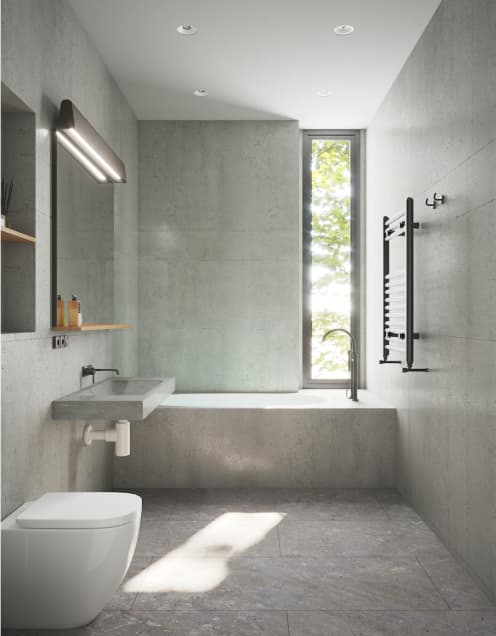
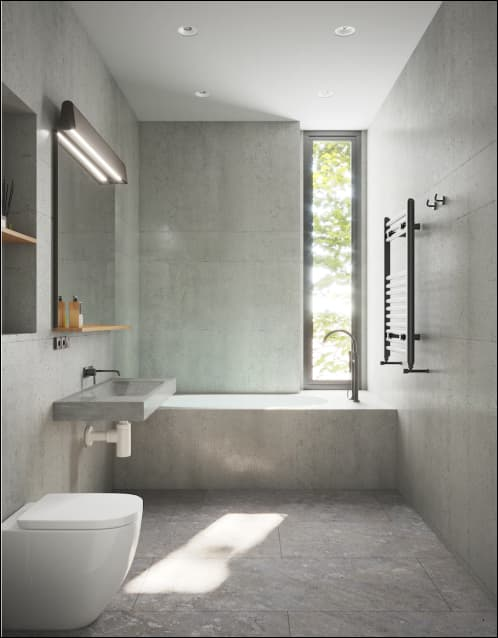
Changed image 2 (jpg to png)

diff --git a/src/partials/room/amenities.html b/src/partials/room/amenities.html
@@ -113,12 +113,12 @@
       <div class="room-amenities-img-2-wrap">
         <img
           srcset="
-            ././img/room/amenities/rectangle-02-mobile-1x.jpg  259w,
-            ././img/room/amenities/rectangle-02-mobile-2x.jpg  518w,
-            ././img/room/amenities/rectangle-02-tablet-1x.jpg  408w,
-            ././img/room/amenities/rectangle-02-tablet-2x.jpg  816w,
-            ././img/room/amenities/rectangle-02-desktop-1x.jpg 496w,
-            ././img/room/amenities/rectangle-02-desktop-2x.jpg 992w
+            ././img/room/amenities/rectangle-02-mobile-1x.png  259w,
+            ././img/room/amenities/rectangle-02-mobile-2x.png  518w,
+            ././img/room/amenities/rectangle-02-tablet-1x.png  408w,
+            ././img/room/amenities/rectangle-02-tablet-2x.png  816w,
+            ././img/room/amenities/rectangle-02-desktop-1x.png 496w,
+            ././img/room/amenities/rectangle-02-desktop-2x.png 992w
           "
           sizes="(min-width: 1440px) 496px, (min-width: 768px) 408px, 259px"
           src="././img/room/amenities/rectangle-02-mobile-1x.jpg"
